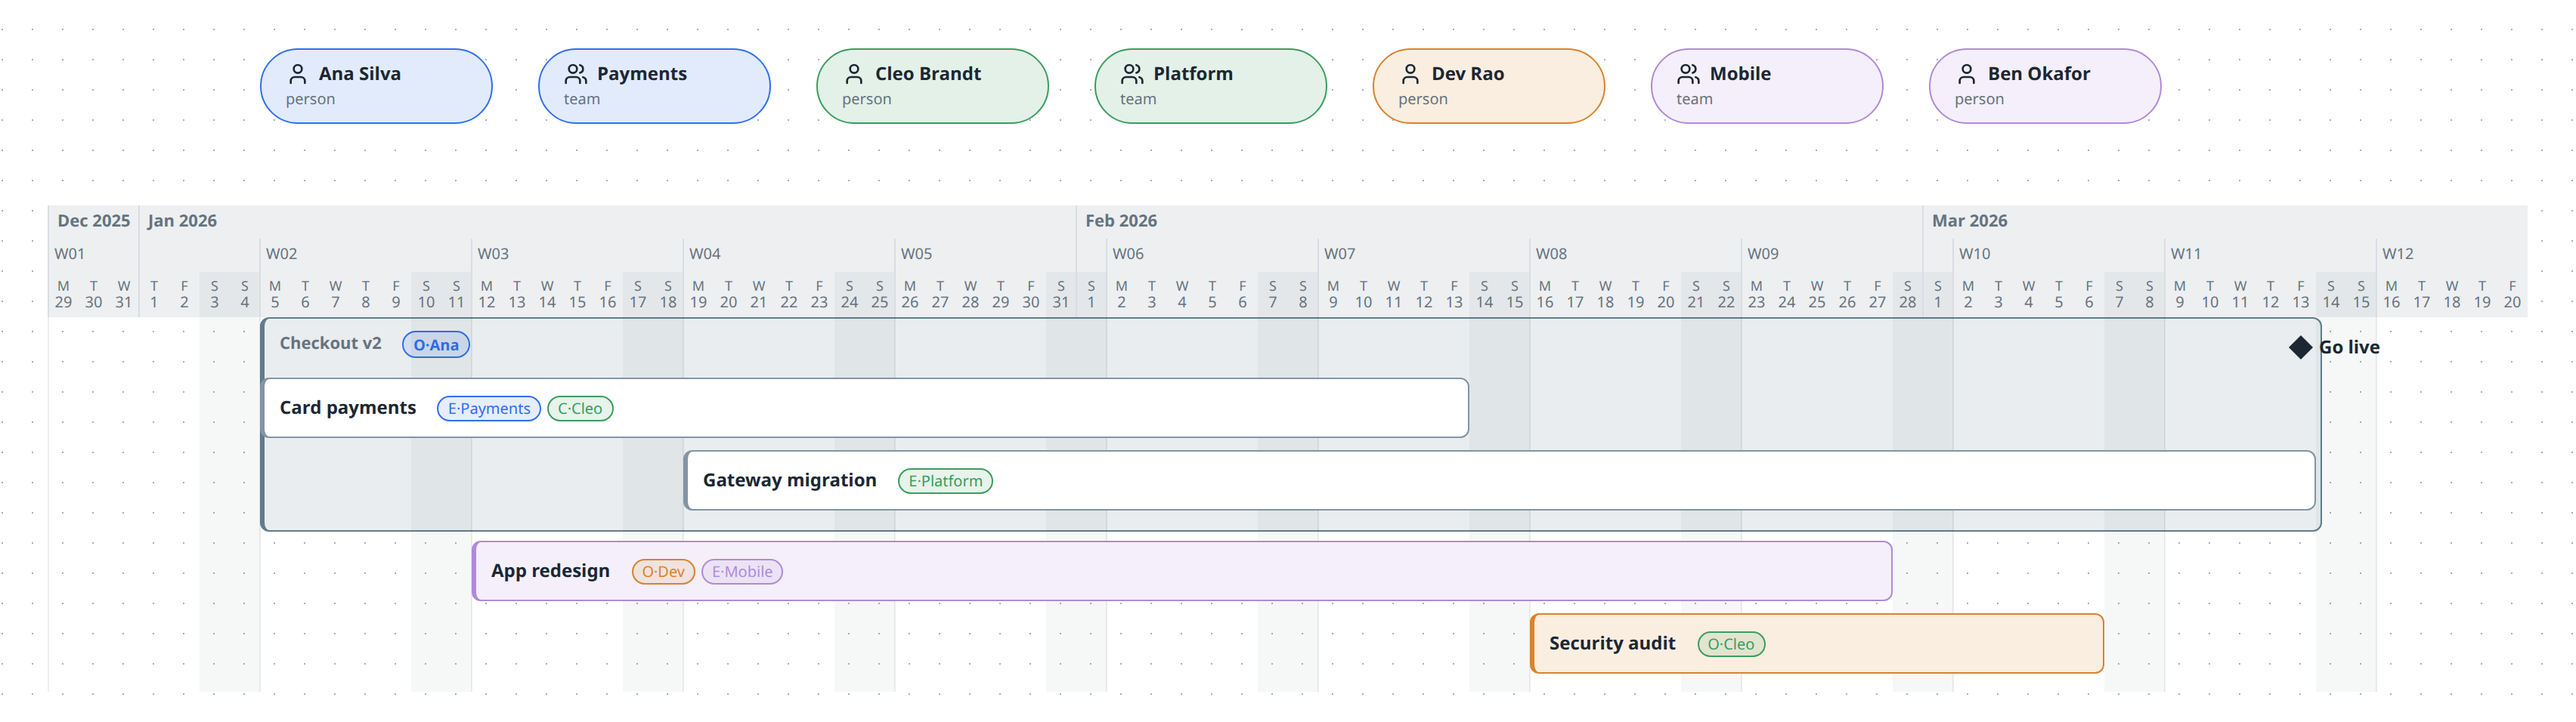
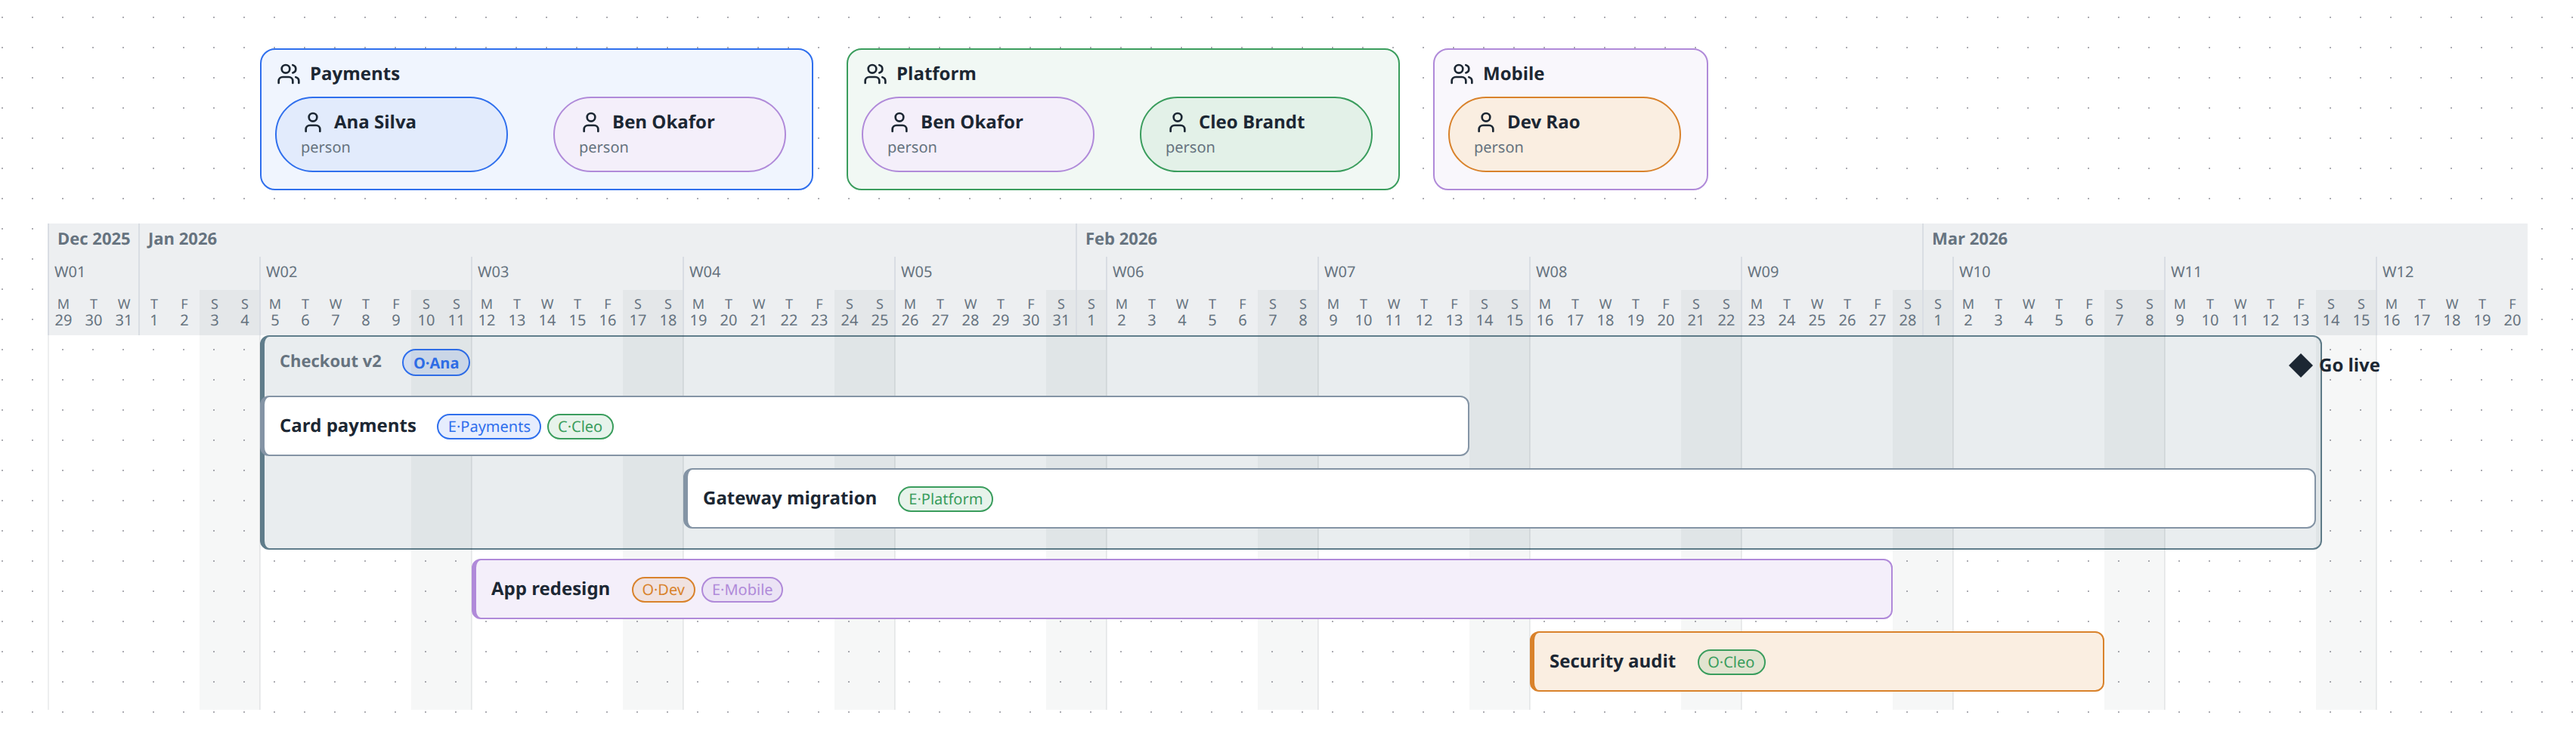
docs(plan): the roster frames each team around its members

diff --git a/.diagrams/src/examples/plan/teams.diagram.ts b/.diagrams/src/examples/plan/teams.diagram.ts
@@ -10,7 +10,7 @@ const ben = plan.person('ben', 'Ben Okafor', { color: '#b08ad9' });
 const cleo = plan.person('cleo', 'Cleo Brandt', { color: '#3a9d5d' });
 const dev = plan.person('dev', 'Dev Rao', { color: '#d9822b' });
 
-// Ben is in two teams, so his work shows in both lanes.
+// Ben is in two teams, so he has a badge in both team frames and his work shows in both lanes.
 const payments = plan.team('payments', 'Payments', { color: '#2f6fed' });
 const platform = plan.team('platform', 'Platform', { color: '#3a9d5d' });
 const mobile = plan.team('mobile', 'Mobile', { color: '#b08ad9' });

diff --git a/docs/how-to/draw-a-plan.md b/docs/how-to/draw-a-plan.md
@@ -11,7 +11,7 @@ A schedule: zones as date bars that nest, events as milestones, people or teams 
 5. Drop an **Event** for a milestone.
 6. Add people or teams with **Add person** / **Add team** in the Plan panel, then pick them as Owner / Executor / Checker on a zone — the chips `O·`, `E·`, `C·` appear on the bar, one letter per role, hover for the full name. Or drag a person or team from the roster onto a zone to make them its executor in one gesture (a no-op if they already hold a role there); drag any other node onto a zone and it moves into it. Click a chip to change the role or remove the actor.
 
-   To put a person in a team, drag the person's roster card onto the team's card. A person can be in several teams. Properties → Plan lists a person's teams, each with a remove button.
+   To put a person in a team, drag the person's roster card onto the team's card. A person can be in several teams, and shows as a badge in each team's frame. Properties → Plan lists a person's teams, each with a remove button.
 
 7. Schedule a node that lives on another plane (a C4 container, an ER table…) by selecting it and, in Properties → Memberships, adding the zone as a container on the plan plane. It drops into the zone's flow at first; drag it anywhere inside the bar afterwards and it stays exactly there (the bar grows to fit) instead of snapping back into the flow.
 8. Comment on a bar in Properties → Comments and attach resources in Properties → Links — the badge at the bar's corner opens both on the published page.
@@ -36,13 +36,15 @@ Folds and the day width are a way of looking, in edit mode too: they are not edi
 
 Put people in teams and a plan can show who works on what, team by team. A person belongs to a team through a `member-of` relation; see [From TypeScript](#from-typescript) for the code, or drag the person onto the team in the studio.
 
+In the roster, a team that has members is a frame around their badges, in the team's colour. The frames come first, in the order the teams are declared. People in no team follow, then **Unassigned**. A person in two teams has a badge in each frame. Clicking either badge lights the person and their zones. A team with no members is a plain card. Frames show whether or not the plan is grouped, and in the exported PNG.
+
 Press **Group by team** (the button beside the zoom buttons) and the plan is drawn in one lane per team, each with a header in the team's name and colour. Lanes run in the order the teams are declared, then one lane for each person who is in no team, then **Unassigned**. A lane with nothing in it is not drawn. Top-level events belong to no team: they stay in a band above the lanes.
 
 A bar goes in the lane of every team that executes it. That is a team holding the Executor role, or the teams of a person holding it. A person in no team is a lane of their own. Owners and checkers do not place a bar; their chips still show wherever the bar is drawn. A zone with no executor of its own takes the teams of the zone it sits in. Work that no one executes is **Unassigned**.
 
 A project with no executor of its own appears in each lane that works inside it. Each copy shows only the zones that lane works on, and the days that lane covers are tinted in the team's colour. A bar a team executes itself is tinted over its whole length. The tint is there folded or open. Selecting, folding and opening work on the one real zone, so a change shows in every copy.
 
-To take something out of the picture, press the eye on a roster card: a team, a person, or the **Unassigned** card, which appears when some work has no executor. Their work disappears, and so do their chips. A hidden card stays in the roster, dimmed, so you can show it again. Hiding works without grouping too. A hidden zone is never moved to another lane: a zone only the hidden people execute is gone, not Unassigned. A person in two teams still shows in the visible one.
+To take something out of the picture, press the eye on a roster card: a team, a person, or the **Unassigned** card, which appears when some work has no executor. Their work disappears, and so do their chips. A hidden card stays in the roster, dimmed, so you can show it again. Hiding works without grouping too. A hidden zone is never moved to another lane: a zone only the hidden people execute is gone, not Unassigned. A person in two teams still shows in the visible one. The eye on either of that person's badges hides them in both.
 
 Inside a zone you opened with **⤢** there are no lanes, and the zone is drawn as usual. Hiding still applies there.
 
